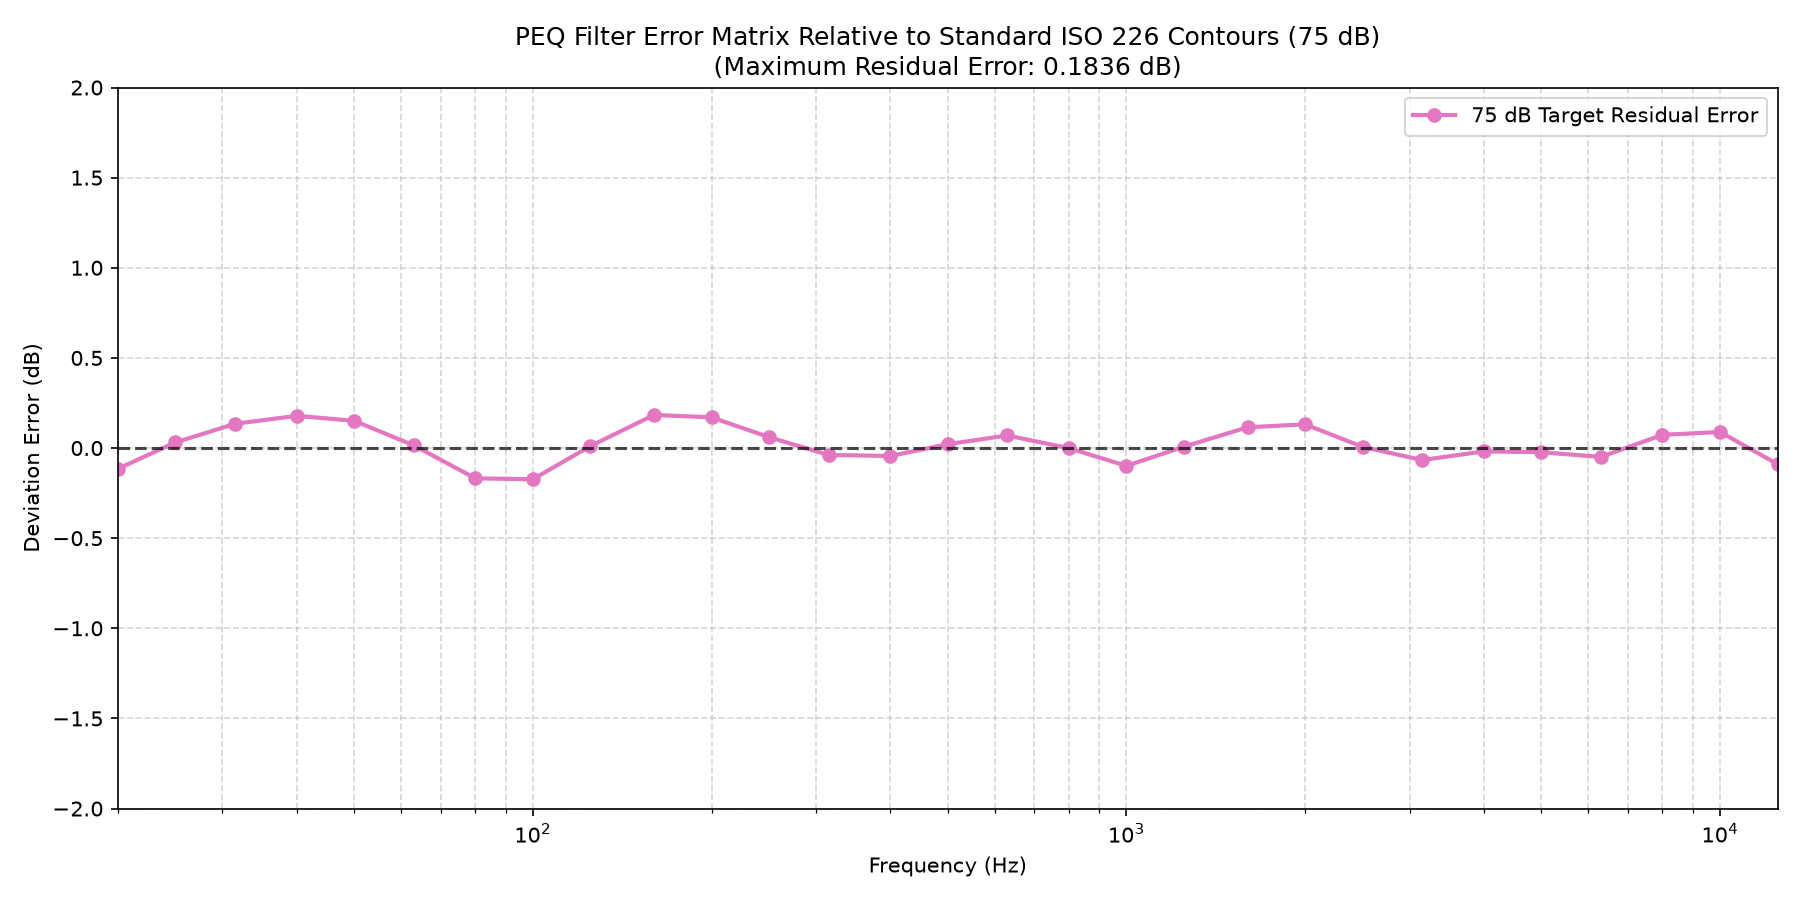
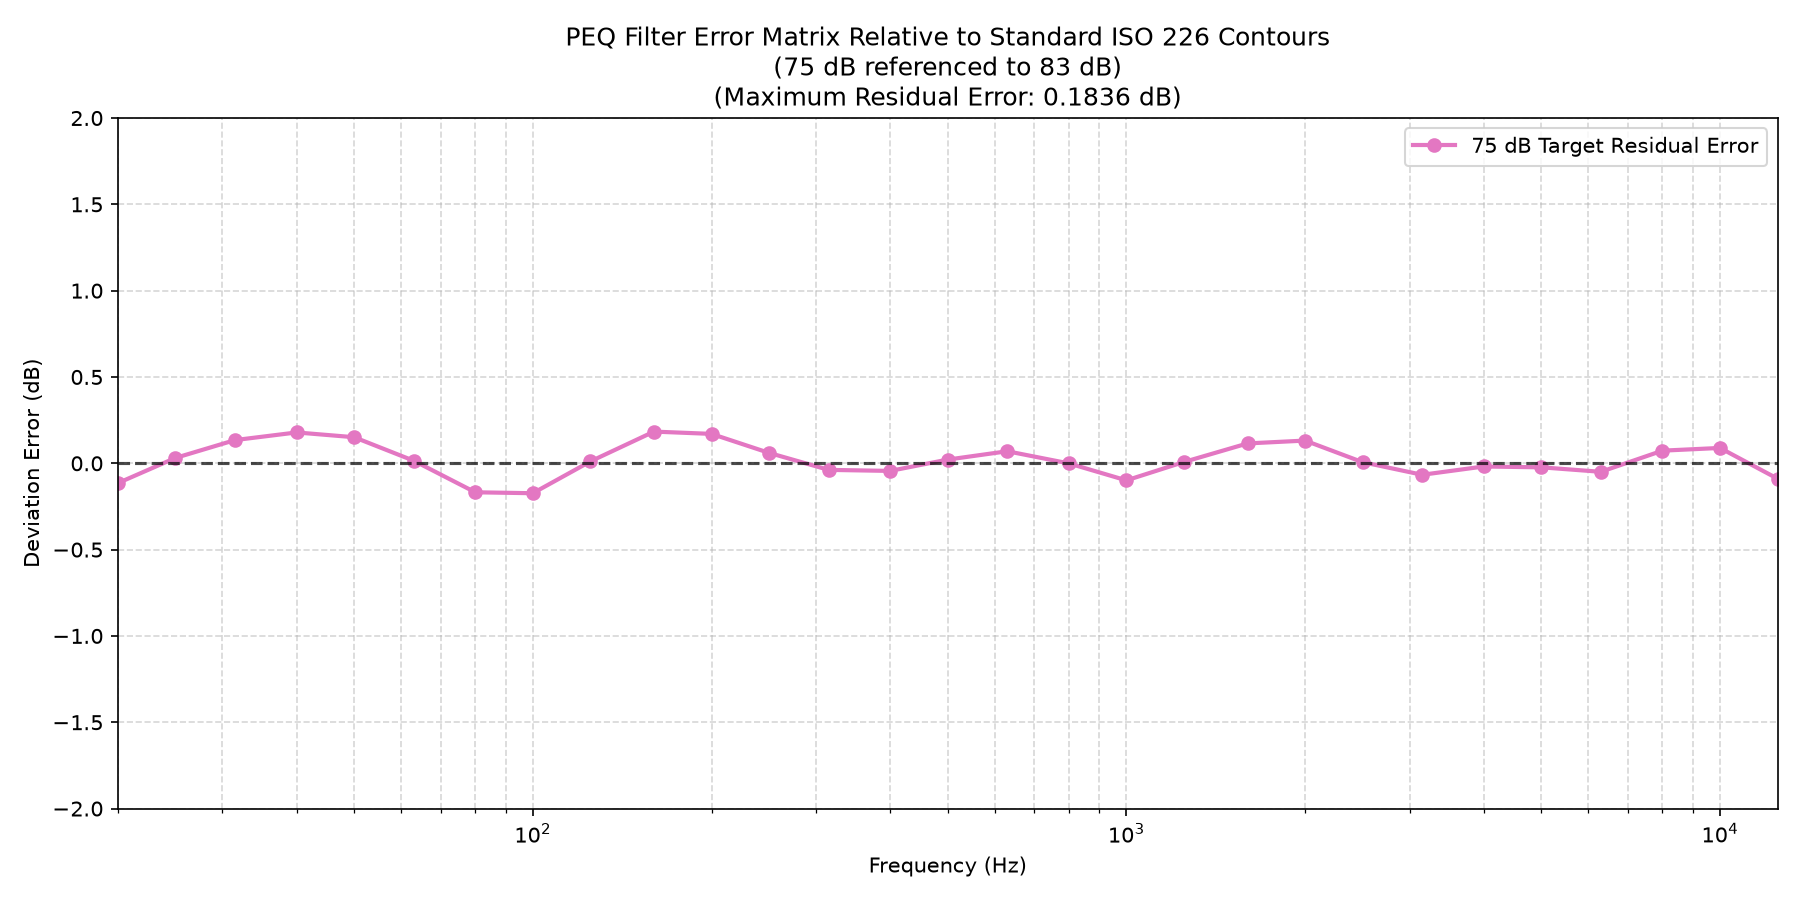
ref

diff --git a/check.py b/check.py
@@ -49,6 +49,26 @@ def parse_markdown_filters(filepath):
     return filters
 
 
+def parse_markdown_reference_level(filepath):
+    """Parses the reference level from a generated Markdown table file if present.
+
+    Defaults to 83.0 if not found or file doesn't exist.
+    """
+    if not os.path.exists(filepath):
+        return 83.0
+    with open(filepath, 'r', encoding='utf-8') as file:
+        for line in file:
+            if "Reference Level:" in line:
+                try:
+                    parts = line.split("Reference Level:")
+                    if len(parts) > 1:
+                        ref_part = parts[1].split("dB")[0].strip()
+                        return float(ref_part)
+                except ValueError:
+                    pass
+    return 83.0
+
+
 def main():
     """Main execution function to parse arguments, run filter generation,
 
@@ -59,6 +79,8 @@ def main():
     )
     parser.add_argument('--level', type=float, default=65.0,
                         help='Target average playback level in dB (default: 65.0)')
+    parser.add_argument('--reference', type=float, default=None,
+                        help='Reference level for flat playback in dB (default: read from file, or 83.0)')
     args = parser.parse_args()
 
     # Determine filenames based on level
@@ -66,18 +88,37 @@ def main():
     md_filename = f"filter-{level_str}db.md"
     plot_filename = f"iso_226_filter_error_for_{level_str}db.png"
 
-    # Make system call to generate the filter file if it doesn't exist
-    if not os.path.exists(md_filename):
-        print(f"File '{md_filename}' not found. Generating filters using loudness-filters.py...")
+    # Read reference level from file if it exists and wasn't explicitly provided,
+    # otherwise default to 83.0
+    file_ref_level = None
+    if os.path.exists(md_filename):
+        file_ref_level = parse_markdown_reference_level(md_filename)
+
+    ref_level = args.reference
+    if ref_level is None:
+        ref_level = file_ref_level if file_ref_level is not None else 83.0
+
+    # Regenerate if file doesn't exist or reference level doesn't match
+    need_regeneration = not os.path.exists(md_filename)
+    if not need_regeneration and args.reference is not None and file_ref_level != args.reference:
+        print(f"Existing file '{md_filename}' has reference level {file_ref_level} dB, but {args.reference} dB was requested. Regenerating...")
+        need_regeneration = True
+
+    if need_regeneration:
+        print(f"Generating filters using loudness-filters.py...")
         script_dir = os.path.dirname(os.path.abspath(__file__))
         filters_script = os.path.join(script_dir, 'loudness-filters.py')
-        subprocess.run([sys.executable, filters_script, '--level', str(args.level)], check=True)
+        subprocess.run([
+            sys.executable, filters_script,
+            '--level', str(args.level),
+            '--reference', str(ref_level)
+        ], check=True)
 
     # Read the PEQ filters from the Markdown table file
     filters = parse_markdown_filters(md_filename)
 
     # Calculate Ideal Target
-    ref_spl = iso226_spl(83.0)
+    ref_spl = iso226_spl(ref_level)
     target_spl = iso226_spl(args.level)
 
     # Delta curve normalized at 1000 Hz (index 17 in standard preferred frequencies)
@@ -99,7 +140,8 @@ def main():
         color='#e377c2', linewidth=2
     )
     plt.axhline(0, color='black', linestyle='--', alpha=0.7)
-    title_str = f'PEQ Filter Error Matrix Relative to Standard ISO 226 Contours ({level_str} dB)'
+    ref_str = f"{int(ref_level)}" if ref_level.is_integer() else f"{ref_level}"
+    title_str = f'PEQ Filter Error Matrix Relative to Standard ISO 226 Contours\n({level_str} dB referenced to {ref_str} dB)'
     title_str += f'\n(Maximum Residual Error: {max_error:.4f} dB)'
     plt.title(title_str)
     plt.xlabel('Frequency (Hz)')

diff --git a/loudness-filters.py b/loudness-filters.py
@@ -123,8 +123,10 @@ def write_markdown_table(filters, level, headroom_offset=0.0):
 
 
 
-def plot_frequency_response(filters, level, headroom_offset=0.0, fs=48000):
+def plot_frequency_response(filters, level, headroom_offset=0.0, fs=48000, ref_level=None):
     """Plots the combined frequency response of the PEQ filters and saves to PNG."""
+    if ref_level is None:
+        ref_level = REF_LEVEL
     frequencies = np.logspace(np.log10(20), np.log10(20000), 1000)
 
     # Convert magnitude to dB and apply headroom offset
@@ -134,7 +136,9 @@ def plot_frequency_response(filters, level, headroom_offset=0.0, fs=48000):
     plt.figure(figsize=(12, 6))
     plt.semilogx(frequencies, response_db, color='#1f77b4', linewidth=2, label='Compensated Response')
 
-    title_str = f'Equal-Loudness PEQ Compensation ({level} dB Average Playback)'
+    level_str = f"{int(level)}" if level.is_integer() else f"{level}"
+    ref_str = f"{int(ref_level)}" if ref_level.is_integer() else f"{ref_level}"
+    title_str = f'Equal-Loudness PEQ Compensation ({level_str} dB referenced to {ref_str} dB)'
     if headroom_offset != 0.0:
         title_str += f'\n(Headroom Adjustment: {headroom_offset:.2f} dB)'
     plt.title(title_str)
@@ -218,10 +222,14 @@ if __name__ == "__main__":
     parser = argparse.ArgumentParser(description='Generate Equal-Loudness PEQ Filters')
     parser.add_argument('--level', type=float, default=65.0,
                         help='Target average playback level in dB (default: 65.0)')
+    parser.add_argument('--reference', type=float, default=83.0,
+                        help='Reference level for flat playback in dB (default: 83.0)')
     args = parser.parse_args()
+
+    REF_LEVEL = args.reference
 
     target_filters = calculate_filters_for_level(args.level)
     offset = calculate_headroom_offset(target_filters)
     write_markdown_table(target_filters, args.level, offset)
     write_camilladsp_yaml(target_filters, args.level, offset)
-    plot_frequency_response(target_filters, args.level, offset)
+    plot_frequency_response(target_filters, args.level, offset, ref_level=REF_LEVEL)

diff --git a/README.md b/README.md
@@ -67,13 +67,20 @@ pip install -r requirements.txt
 ## Usage
 
 ### 1. Generate Custom PEQ Filters
-Run the generator script by specifying your target average listening level in dB:
+Run the generator script by specifying your target average listening level in dB and (optionally) a custom reference level:
 
 ```bash
-python loudness-filters.py --level <target_db>
+python loudness-filters.py --level <target_db> [--reference <reference_db>]
 ```
 
 *   `--level` (float, default: `65.0`): The target average room sound pressure level (SPL) in dB.
+*   `--reference` (float, default: `83.0`): The reference sound pressure level (SPL) in dB representing a flat playback response.
+
+> [!TIP]
+> **Why customize the reference level (`--reference`)?**
+> The default reference level of `83.0` dB SPL represents the standard flat playback level used for mastering most mainstream pop, rock, and jazz recordings.
+>
+> However, some specialized recordings are mastered/voiced for a lower baseline listening level. A prime example is the *[Scripture Lullabies](https://scripture-lullabies.com/pages/stream)* series, which is specifically designed for quiet bedtime or sleep environments. Since these albums are mixed to sound tonally balanced at a much lower level (such as `72.0` dB), setting `--reference 72` ensures that the compensation filters are calculated relative to this lower intended playback level, preventing over-boosting of the bass and treble.
 
 Running the script generates three files for the requested level:
 *   `filter-xxdb.md`: A Markdown table of the PEQ filters and recommended headroom adjustment.
@@ -84,9 +91,10 @@ Running the script generates three files for the requested level:
 Run the verification script to check the deviation of the PEQ filters against the ideal contours:
 
 ```bash
-python check.py --level <target_db>
+python check.py --level <target_db> [--reference <reference_db>]
 ```
 
+*   `--reference` (float, default: parsed from the generated markdown file, or `83.0`): The reference level in dB to verify against. If specified, and the existing `filter-xxdb.md` file contains a different reference level, the script will automatically regenerate the filters with the new reference level.
 *   If the corresponding `filter-xxdb.md` does not exist, the script automatically invokes `loudness-filters.py` to generate it.
 *   It calculates and outputs the maximum residual error to the terminal.
 *   It saves an error deviation plot as `iso_226_filter_error_for_xxdb.png`.
